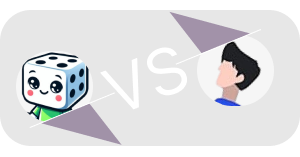
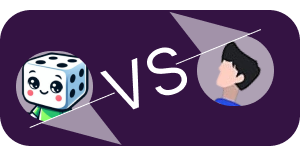
Finition
update all

diff --git a/assets/CSS/styleindex.css b/assets/CSS/styleindex.css
@@ -41,25 +41,30 @@ input[type="submit"] {
     border: none;
     cursor: pointer;
     margin: 30px;
+    
 }
 
 #regles {
+    border-radius: 35px;
     background-image: url("../../assets/images/imageindex/imgregles.png");
     
 }
 
 #classement {
+    border-radius: 35px;
     background-image: url("../../assets/images/imageindex/imgclassement.png");
 }
 
 #versusrobot {
+    border-radius: 70px;
     width: 300px;
-    height: 156.62px;
+    height: 145px;
     background-image: url("../../assets/images/imageindex/imgvsrobot.png");
 }
 
 #versushuman {
+    border-radius: 70px;
     width: 300px;
-    height: 156.62px;
+    height: 145px;
     background-image: url("../../assets/images/imageindex/imgvshuman.png");
 }

diff --git a/src/Pages/Classement.php b/src/Pages/Classement.php
@@ -70,11 +70,12 @@ $i = 0;
                 </tr>
                 <?php
                 if (!empty($data[$i]) && is_array($data)){
-                    $row = $data[$i];
-                    $pseudo = $row['pseudonyme'];
-                    $score = $row['score'];
-                    $place = $row['placeClassement'];
+                    
                     for($i; $i < count($data) && $i < 7; $i++){
+                        $row = $data[$i];
+                     $pseudo = $row['pseudonyme']; 
+                     $score = $row['score'];
+                     $place = $row['placeClassement'];
                         echo '<tr>';
                         echo '<th scope="row">'.htmlspecialchars($place).'</th>';
                         echo '<td>'.htmlspecialchars($pseudo). '</td>';

diff --git a/src/Pages/Inscription.php b/src/Pages/Inscription.php
@@ -3,6 +3,7 @@
     require_once("../Utils/headerInit.php");
     require_once("../CRUD/CRUDStatistiques.php");
     require_once("../CRUD/CRUDClassement.php");
+    require_once("../CRUD/CRUDObtient.php");
 ?>
     <link rel="stylesheet" href="../../assets/css/styleCIRV.css">
 </head>
@@ -32,6 +33,7 @@
                 $_SESSION['userId'] = getIdUser($_POST['E-mail']);
                 createStatistiques($_SESSION['userId']);
                 createClassement(getPseudoById($_SESSION['userId']),$_SESSION['userId']);
+                createObtient($_SESSION['userId'],1);
                 header('Location: Index.php');
              }
         }
